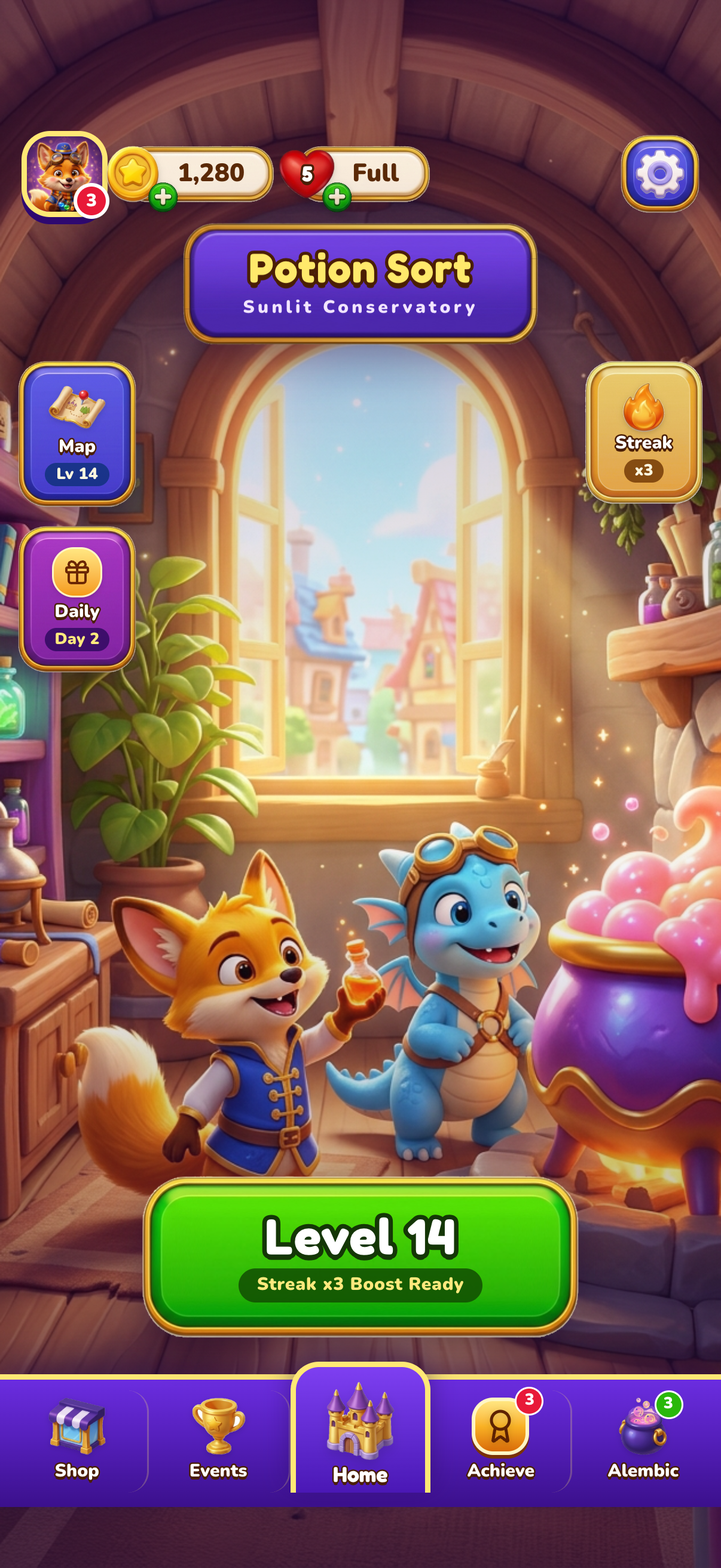
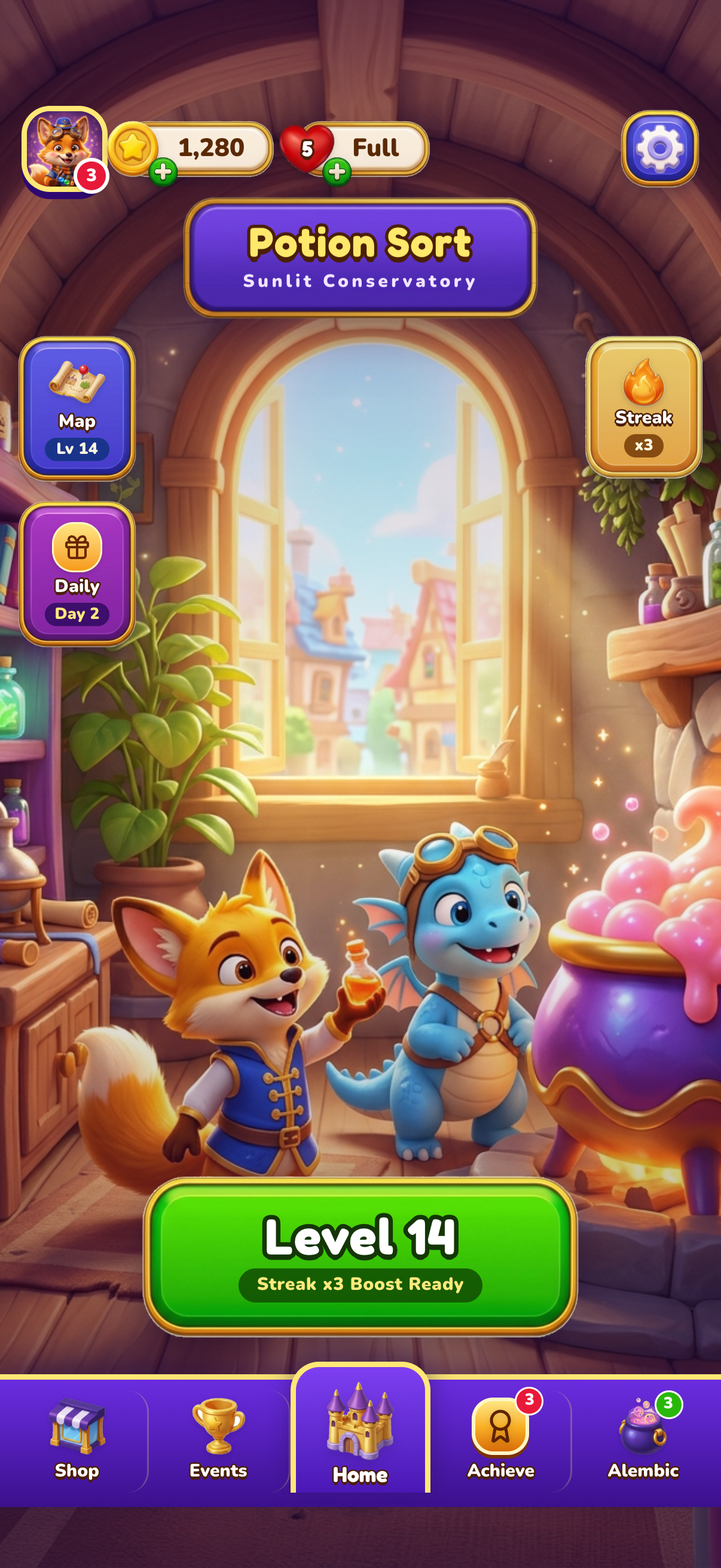
fix(hud): pull top HUD flush to the safe area
Home header had pt-3.5 and the gameplay header pt-3, pushing the avatar /
coins / lives / settings row 14pt and 12pt below the safe-area edge and
leaving a visible empty strip under the notch. Drop both paddings so the
HUD starts exactly at the safe area, matching the art's framing.

Re-render 01-home and 02-gameplay screenshots.

diff --git a/src/components/TitleHomeScreen.tsx b/src/components/TitleHomeScreen.tsx
@@ -91,7 +91,7 @@ export const TitleHomeScreen: React.FC<TitleHomeScreenProps> = ({
       <div className="pointer-events-none absolute inset-0 bg-gradient-to-b from-[#2E0E5E]/40 via-transparent to-[#2D104F]/48" />
 
       {/* TOP BAR (Avatar -> Achievements, Coins Pill, Hearts Pill, 3D Settings) */}
-      <header className="relative z-20 pt-3.5 px-3 flex items-center justify-between gap-1.5">
+      <header className="relative z-20 px-3 flex items-center justify-between gap-1.5">
         <div className="flex items-center gap-2 min-w-0">
           {/* Fox Alchemist Mascot Portrait -> Achievements & Codex */}
           <button

diff --git a/src/components/GameplayScreen.tsx b/src/components/GameplayScreen.tsx
@@ -1225,7 +1225,7 @@ export const GameplayScreen: React.FC<GameplayScreenProps> = ({
       <div className={`pointer-events-none absolute inset-0 ${atmosphereOverlay}`} />
 
       {/* TOP HUD BAR */}
-      <header className="relative z-20 pt-3 px-3.5 flex flex-col items-center gap-1.5">
+      <header className="relative z-20 px-3.5 flex flex-col items-center gap-1.5">
         <div className="w-full flex items-center justify-between gap-2">
           {/* Left: Pause + Coin Pill */}
           <div className="flex items-center gap-2">
